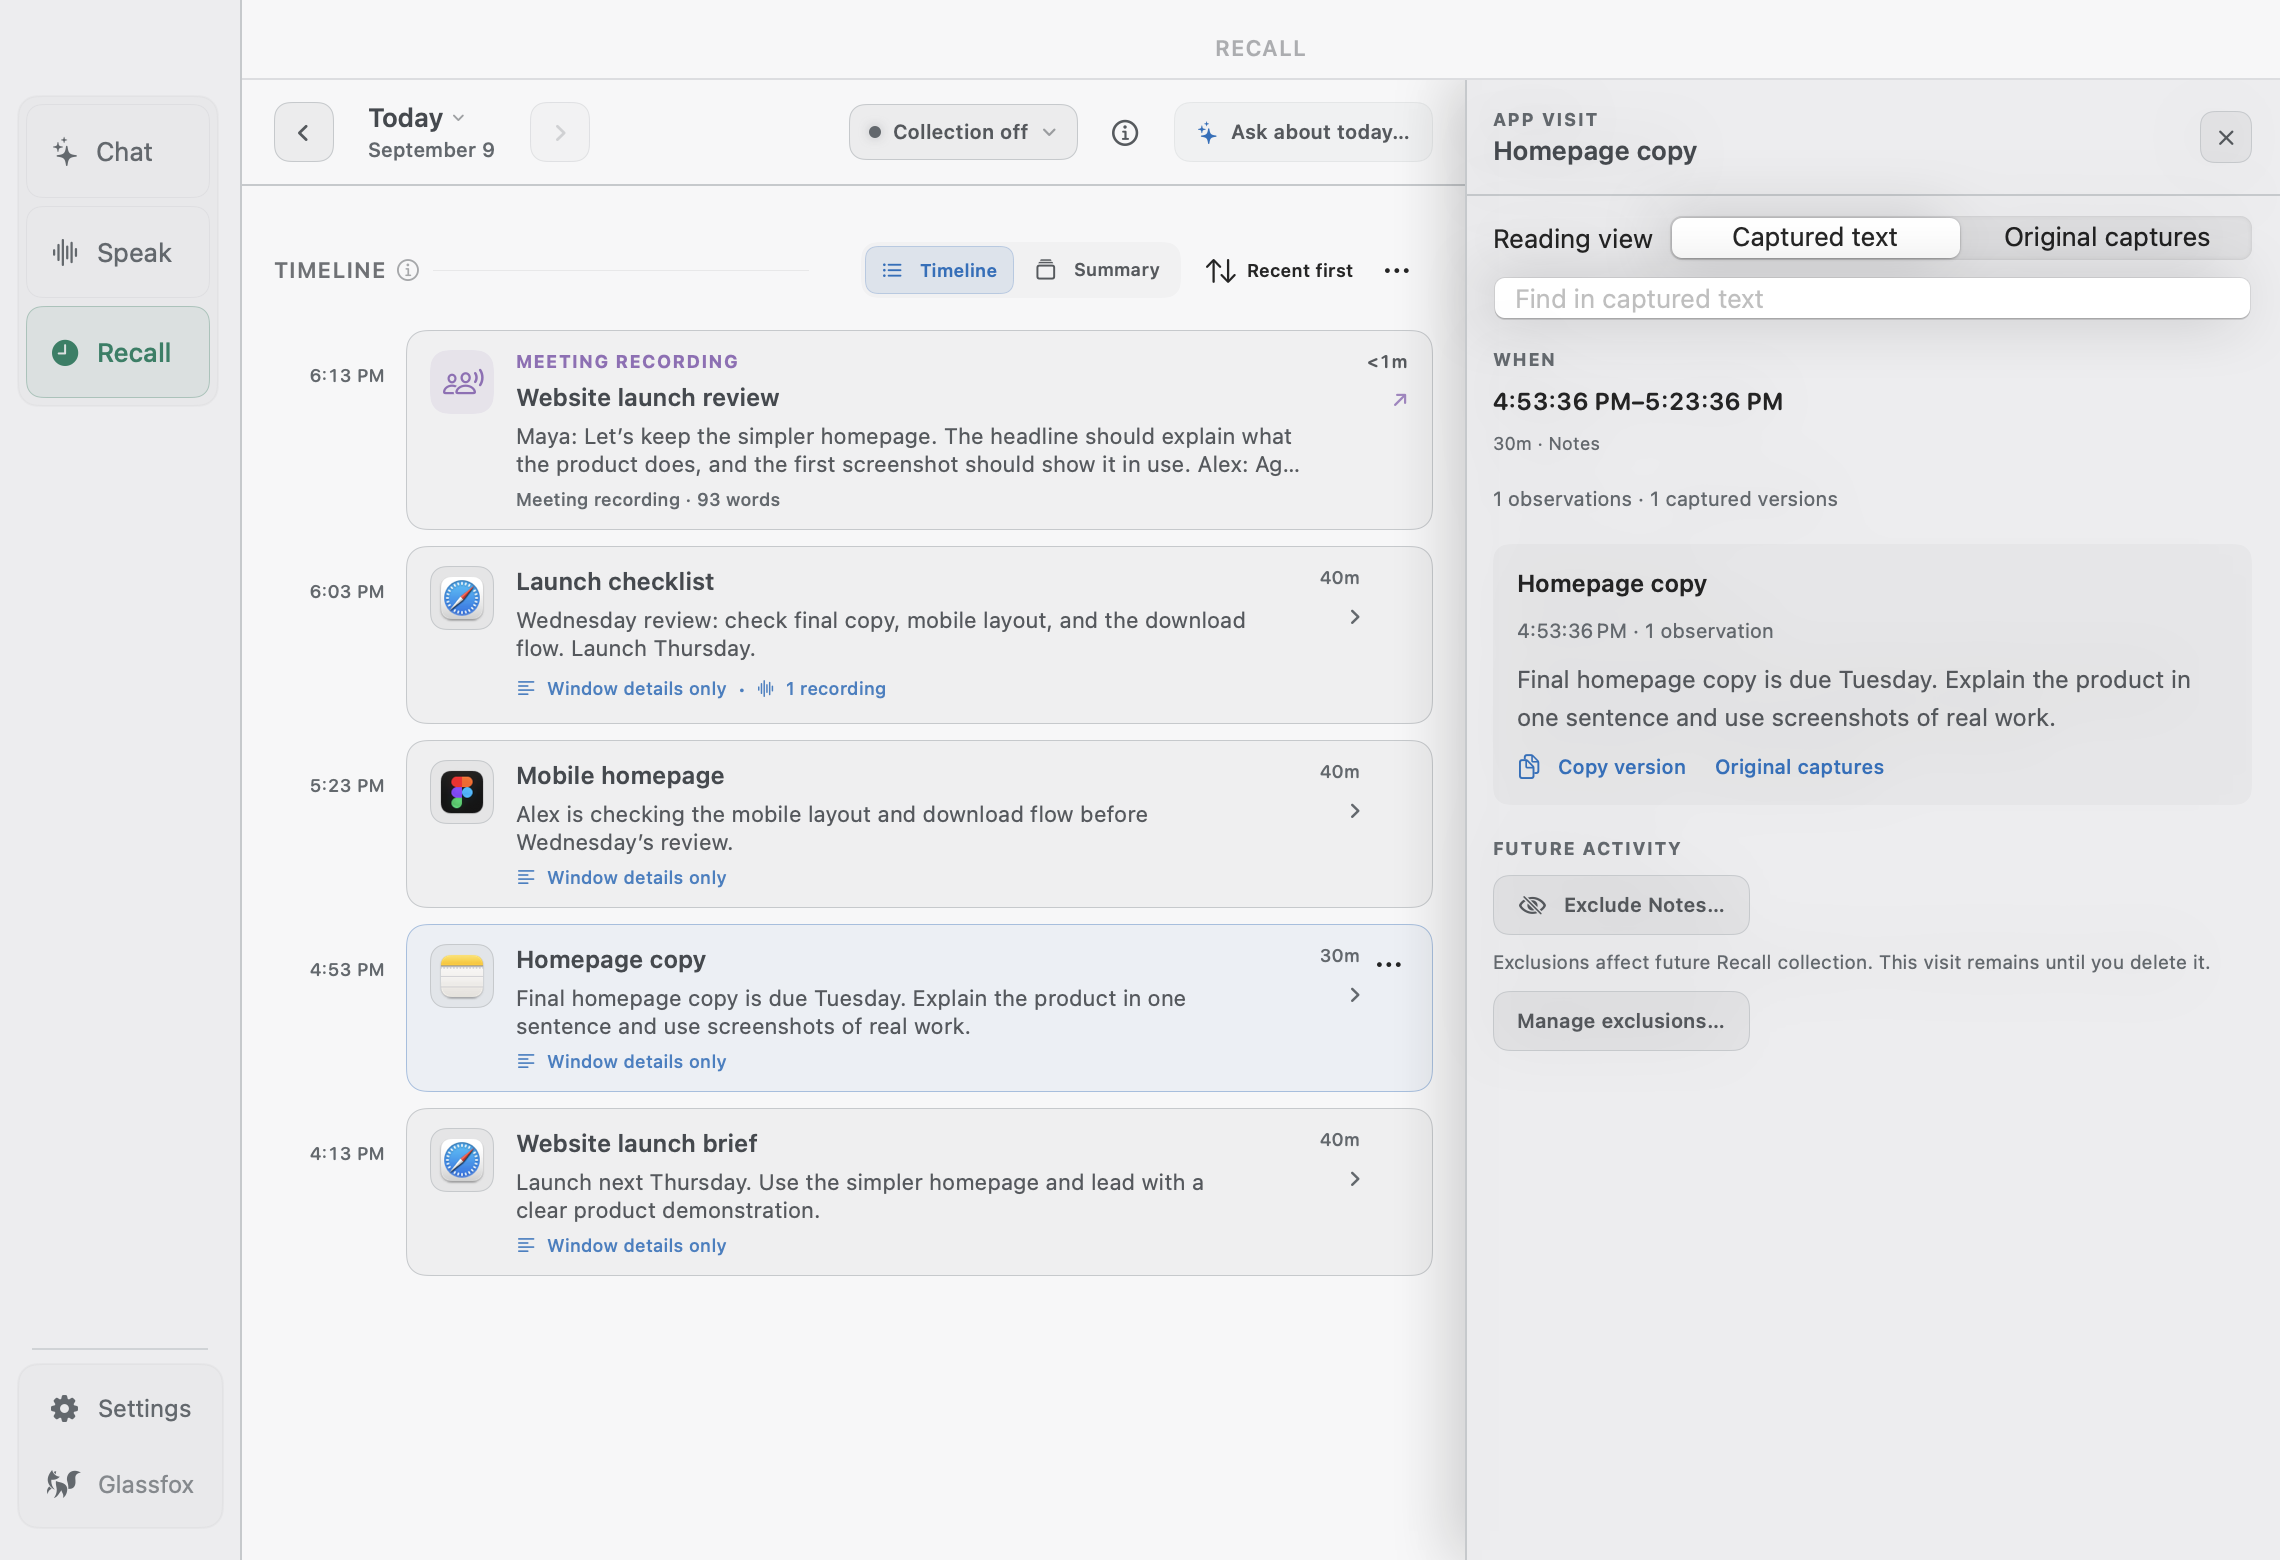
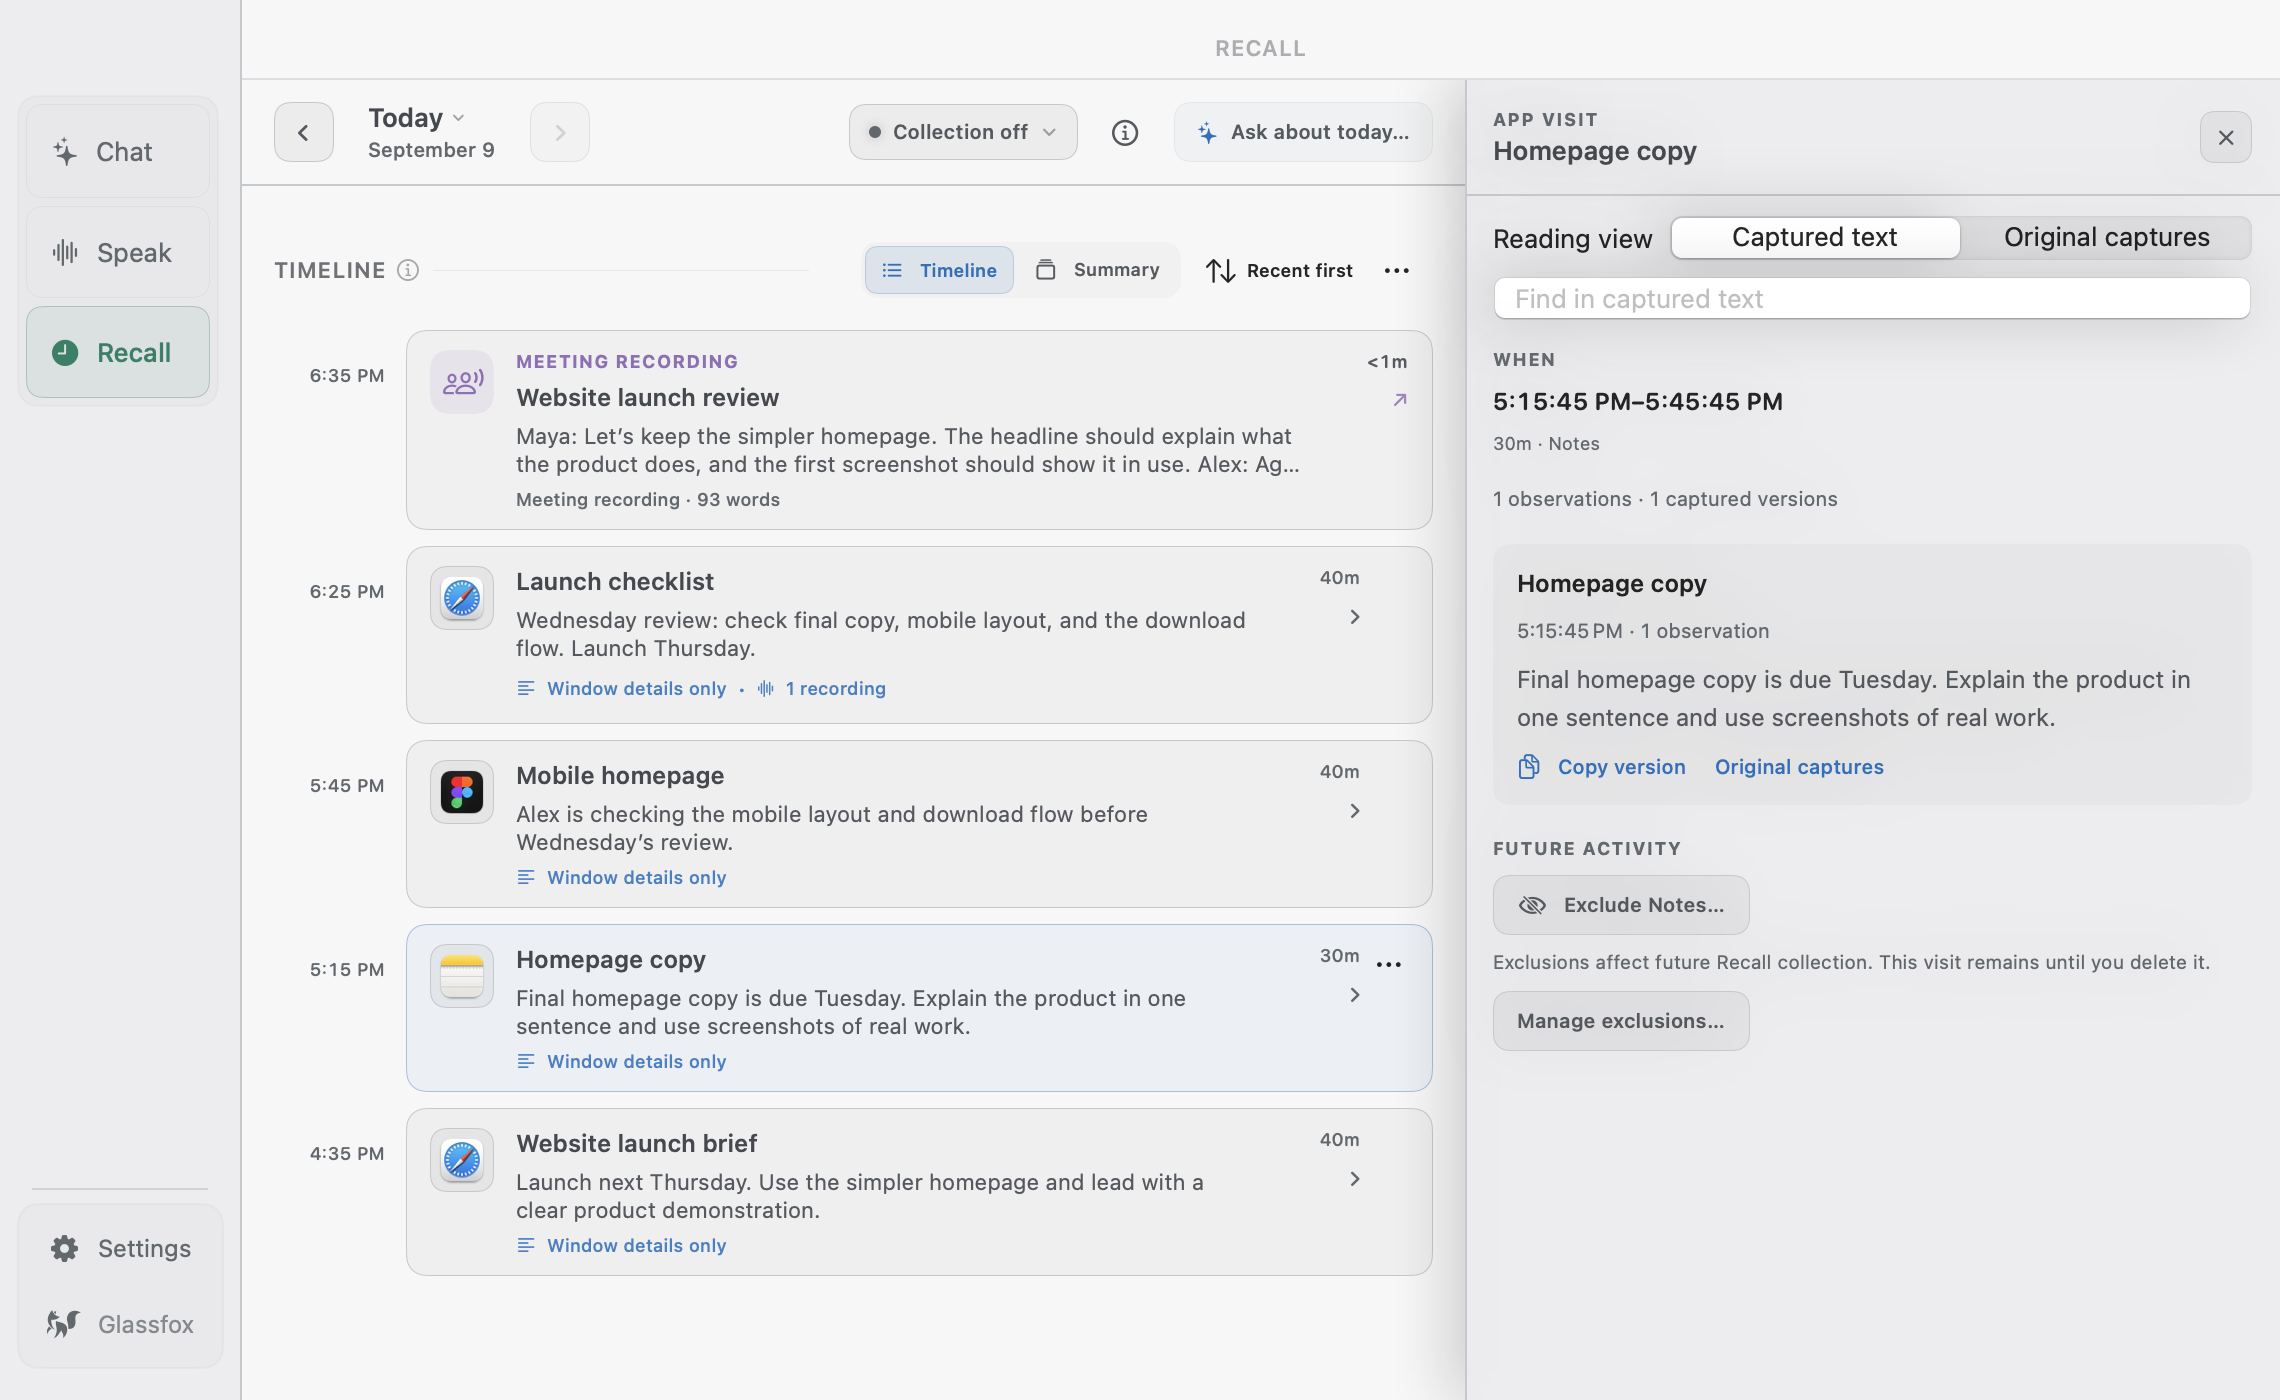
docs: clarify Glassfox for new users and tighten product screenshots

diff --git a/README.md b/README.md
@@ -8,124 +8,132 @@
 </p>
 
 <p align="center">
-  A Mac app for dictation, meeting notes, and finding your way back to your work.<br>
-  Powered by local models. Your work stays on your Mac by default.
+  <b>Your own AI assistant, right on your Mac.</b><br>
+  Dictate into your apps, turn meetings into useful notes, and ask questions about your documents and work.<br>
+  Powered by local models. Private by default.
 </p>
 
+> **Glassfox 1.6 preview.** The features, screenshots, and plans below describe the upcoming release. The download currently provides **Chirp 1.5.4**.
+>
+> **Glassfox plans:** Unlimited voice typing, free. Pro is **$39 once**, with a **10-day trial**.
+
 <p align="center">
-  <a href="https://github.com/selcamx/glassfox/releases/latest"><b>Download for macOS</b></a>
-  &nbsp; · &nbsp; <a href="https://glassfox.ai">Website</a>
+  <a href="https://github.com/selcamx/glassfox/releases/latest"><b>Download current release: Chirp 1.5.4</b></a><br>
+  <a href="https://glassfox.ai">Website</a>
   &nbsp; · &nbsp; <a href="https://github.com/selcamx/glassfox/releases">Release notes</a>
-  &nbsp; · &nbsp; <a href="https://github.com/selcamx/glassfox/issues">Report an issue</a>
+  &nbsp; · &nbsp; <a href="https://github.com/selcamx/glassfox/issues">Get help</a>
 </p>
 
 <p align="center">
-  <sub>Apple Silicon · macOS 15 or later · English dictation and meetings</sub>
+  <sub>Apple Silicon (M1 or newer) · macOS 15+ · English dictation and meetings</sub>
 </p>
 
-> **Glassfox 1.6 preview.** This page describes the upcoming Glassfox release. The latest public download is currently Chirp 1.5.4. Existing Chirp licenses and saved recordings carry over to Glassfox.
+## Chat: ask questions about your work
 
-Glassfox started as Chirp, a way to dictate and transcribe meetings on a Mac.
-It now connects those recordings with an optional timeline of your work, so you
-can return to what you were doing and ask questions with the relevant context.
+Ask about a document, recording, or your current screen, then inspect the sources
+behind the answer. Chat works without meeting recordings or Recall.
 
-## From a recording to the work around it
+For example: **“What did we agree on, and who owns the next steps?”**
 
-### Speak
+![Chat answering a question about a sample meeting](.github/screenshots/chat.png)
 
-Dictate into the app you're using, or record a meeting with your microphone and
-the call's audio. Meeting Mode labels speakers without sending a bot into the
-call. Saved recordings have searchable transcripts, playback, and tags.
+*Generated locally from a sample meeting, with web search off.*
 
-Solo dictation is free. Live Solo text is also free with the optional live
-component installed and enabled. Meeting Mode is included in Pro.
+## Speak: turn speech into text and meeting notes
 
-![Speak showing a sample meeting transcript with two speakers and playback controls](.github/screenshots/speak.png)
+Dictate an email into your app, or record a meeting with microphone and call audio.
+Get speaker labels without a meeting bot. Search transcripts, replay a moment,
+and turn recordings into notes.
+
+![Speak showing a sample meeting transcript, speaker labels, and playback](.github/screenshots/speak.png)
 
 *Sample meeting content in the native app.*
 
-### Recall
+## Recall: find the page or document you had open
 
-Find the page you were reading or the document you had open around a meeting.
-When you turn it on, Recall builds a timeline from the apps you use and the
-readable context macOS makes available. It connects that activity to your saved
-recordings.
+Find a proposal you read earlier or revisit the work around a meeting. Recall
+saves a timeline of apps and readable context you can inspect or ask about.
+It works independently of recording.
 
-Recall is opt-in. Captured text and descriptive context are encrypted on your
-Mac and kept for 30 days by default. You can pause collection, exclude apps,
-change retention, inspect, export, or delete it. Recall does not keep a screenshot
-archive.
+Recall starts off. Captured context is encrypted locally and kept for 30 days by
+default. You control collection, app exclusions, retention, export, and deletion.
+There is no screenshot archive.
 
-![Recall showing a sample project timeline with captured note text open](.github/screenshots/recall.png)
+![Recall showing a sample project timeline with a note open](.github/screenshots/recall.png)
 
-*Sample project activity, with a note open beside the timeline.*
-
-### Chat
-
-Ask about a recording or the Recall context from a day or date range. Add a file
-or your current screen when it helps, then open the sources behind the answer.
-Pro can also turn recordings into summaries, cleaned notes, or email drafts,
-and create daily briefs from Recall.
-
-Ask runs locally by default after its models are downloaded. Optional cloud
-answers use your own API key, with provider charges billed separately.
-
-![Chat answering a question about a sample meeting using the local model](.github/screenshots/chat.png)
-
-*An answer generated on this Mac from the sample meeting transcript, with web search off.*
+*Sample project activity with a note open.*
 
 ## Start free
 
-| | Starter | Pro |
-| --- | --- | --- |
-| Price | Free, without a time limit | $39 once |
-| Solo dictation and saved recordings | Included | Included |
-| Transcript search, playback, and tags | Included | Included |
-| Recall collection and privacy controls | Included, opt-in | Included, opt-in |
-| Recall browsing | Today's full timeline and earlier-day overviews | Full retained timeline and historical search |
-| Meeting Mode with speaker labels | | Included |
-| New Ask answers, summaries, and daily briefs | | Included |
+| Starter, free with no expiry | Pro, $39 once |
+| --- | --- |
+| Unlimited voice typing | Everything in Starter |
+| Saved recordings, transcript search, playback, and tags | Meeting recording with speaker labels |
+| Today's Recall timeline and earlier-day app activity overviews | Full retained Recall history and context search |
+| Recall privacy, retention, and export controls | New Chat answers, notes, drafts, and daily briefs |
 
-The **10-day Pro trial** starts when you choose a Pro feature, not during setup
-or model downloads. No card or account is required to try it. Saved recordings,
-answers, briefs, and documents stay readable after the trial ends.
+The **10-day Pro trial** starts with intentional Pro use, not setup or downloads.
+No card or account required. Saved recordings and generated results stay readable
+after the trial ends.
 
-Pro covers one active Mac at a time, can move with you to another Mac, and includes
-future updates. Existing Chirp licenses keep their original activation limits.
-Pro can use only Recall context that was captured and is still retained; it
-cannot recover deleted, expired, or uncaptured activity.
+## Private by default
 
-## What stays on your Mac
+Dictation, meeting transcription, speaker recognition, and Recall collection run
+on your Mac. Chat also runs locally by default, using downloaded models.
 
-Transcription, speaker recognition, and Recall collection run locally. Local Ask
-also processes your questions and context on the Mac.
-
-If you choose cloud answers, your question, recent conversation, and selected
-text context go directly to the provider. That text may include excerpts from
-recordings, Recall, files, and your screen. The cloud answer request does not
-upload raw audio, files, screenshots, or images.
-
-Optional web research sends a public search query to a search provider and
-retrieves selected pages. Downloads, updates, license checks, and optional
-analytics also use the internet. If you connect an external assistant through
-MCP, that client's settings determine how it handles the transcript excerpts
-it reads.
+You can enable web research or cloud answers. Cloud answers use your own DeepSeek
+API key and send your question, recent conversation, and selected text context
+to DeepSeek; provider charges apply. Downloads, updates, licensing,
+and optional analytics also use the internet.
 
 [Read the privacy policy](https://glassfox.ai/privacy).
 
-## Get started
+## Your first few minutes
 
-1. Download the latest installer from [GitHub Releases](https://github.com/selcamx/glassfox/releases/latest) and move the app to Applications.
-2. Follow setup to grant permissions and download the dictation model. Meeting and Ask models download when you choose those features.
-3. Try a dictation with your chosen shortcut. Turn on Recall if you'd like to keep a timeline of your work.
+Follow Glassfox setup to grant permissions and download models. Dictate a short message
+with your chosen shortcut, then attach a document in Chat to try Pro.
+Enable Recall when you'd like a work timeline.
 
-Glassfox requires an Apple Silicon Mac, M1 or newer, running macOS 15 or later.
-Dictation and meeting transcription currently support English.
+## A few useful details
+
+<details>
+<summary>What happened to Chirp?</summary>
+
+Existing Chirp licenses and recordings carry over to Glassfox. Original license
+activation limits are preserved.
+
+</details>
+
+<details>
+<summary>What does the Pro license cover?</summary>
+
+One active Mac, transferable, with future updates included. Pro can use retained
+Recall context collected on Starter; it cannot recover missing or deleted activity.
+
+</details>
+
+<details>
+<summary>Can I see dictation as I speak?</summary>
+
+Yes. Install and enable the optional live-transcription component. Live voice
+typing is free; meetings require Pro or its trial.
+
+</details>
+
+<details>
+<summary>What leaves my Mac when I enable connections?</summary>
+
+Cloud context can include text from recordings, Recall, files, or your screen,
+but not raw audio, files, or images. Web research sends search queries and fetches
+pages. External assistants connected through MCP handle transcript excerpts
+according to their own settings.
+
+</details>
 
 ## Support
 
-This is the public release and issue-tracking repository for Glassfox, a commercial
-macOS app. The app's source code is not published here.
+[Report a bug or request a feature](https://github.com/selcamx/glassfox/issues),
+or email [hello@glassfox.ai](mailto:hello@glassfox.ai) for private support or billing.
 
-[Report a bug or request a feature](https://github.com/selcamx/glassfox/issues).
-For private support or billing questions, email [hello@glassfox.ai](mailto:hello@glassfox.ai).
+This is the release and issue-tracking repository for a commercial Mac app.
+The app's source code is not published here.
